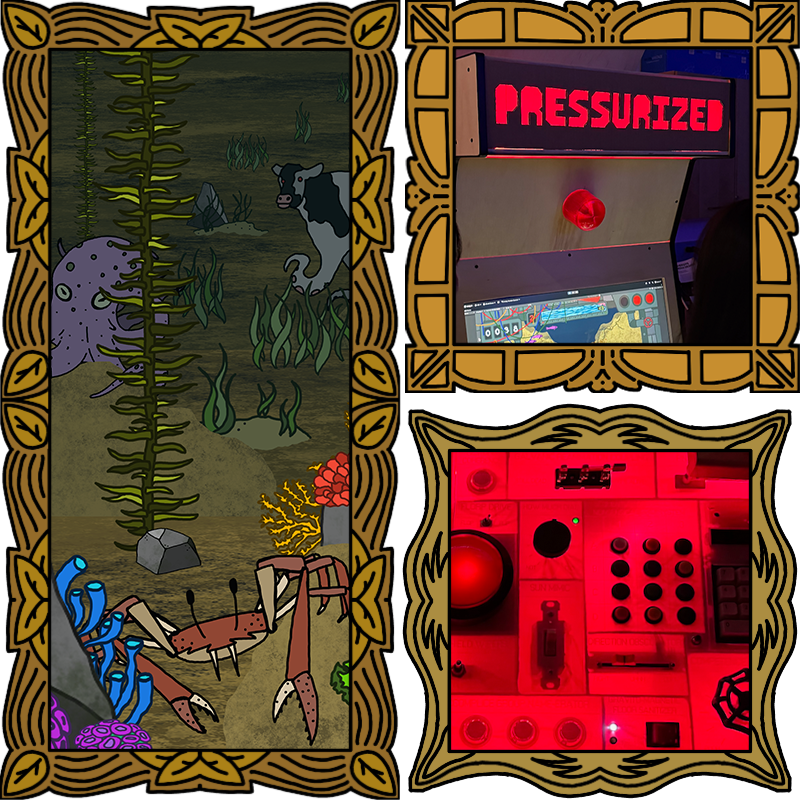
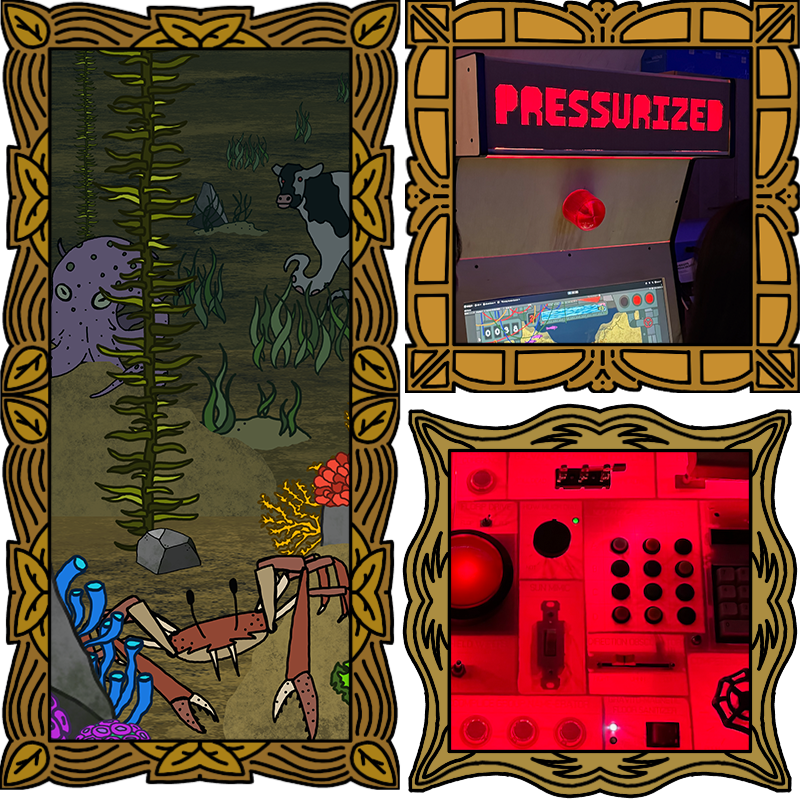
Index Updates

Changed region(s): [[0.0, 0.0312, 0.5, 1.0]]

diff --git a/index.html b/index.html
@@ -97,7 +97,7 @@
         </a>
       </div>
       <div class="gallery-item large">
-        <a href="unity-control-deck.html">
+        <a href="https://youtu.be/dy_K0TRhrXU">
           <img src="gallery/Stairception_TwoFrame.png" title="Stairception (2026)" alt="Stairception (2026)"
             class="responsive-img">
         </a>
